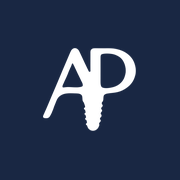
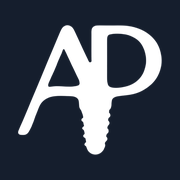
Restore AP implant brand across site

Changed region(s): [[0.0833, 0.1389, 0.9167, 0.8611]]

diff --git a/index.html b/index.html
@@ -21,11 +21,11 @@
     <meta name="twitter:image" content="https://drparmardds.com/og-image.png?v=2" />
     <meta name="geo.region" content="US-NJ" />
     <meta name="geo.placename" content="Hamilton Township, New Jersey" />
-    <link rel="icon" type="image/x-icon" href="/favicon.ico?v=8" />
-    <link rel="icon" type="image/png" sizes="32x32" href="/favicon-32x32.png?v=8" />
-    <link rel="icon" type="image/png" sizes="16x16" href="/favicon-16x16.png?v=8" />
-    <link rel="apple-touch-icon" sizes="180x180" href="/apple-touch-icon.png?v=8" />
-    <link rel="manifest" href="/site.webmanifest?v=7" />
+    <link rel="icon" type="image/png" sizes="32x32" href="/favicon-32x32.png?v=10" />
+    <link rel="icon" type="image/png" sizes="16x16" href="/favicon-16x16.png?v=10" />
+    <link rel="shortcut icon" href="/favicon.ico?v=10" />
+    <link rel="apple-touch-icon" sizes="180x180" href="/apple-touch-icon.png?v=10" />
+    <link rel="manifest" href="/site.webmanifest?v=10" />
     <meta name="robots" content="index, follow, max-image-preview:large, max-snippet:-1, max-video-preview:-1" />
     <meta name="theme-color" content="#151E2D" />
     <meta name="color-scheme" content="light" />
@@ -43,24 +43,68 @@
         align-items: center;
         justify-content: center;
         background: #192743;
-        transition: opacity 0.4s ease;
+        transition: opacity 0.48s ease, visibility 0.48s ease;
+      }
+      .splash-lockup {
+        display: flex;
+        flex-direction: column;
+        align-items: center;
+        transform: translateY(5px);
       }
       #splash-screen img {
-        width: 88px;
+        width: 96px;
         height: auto;
         opacity: 0;
-        transform: scale(0.92);
-        animation: splash-in 0.5s ease-out 0.05s forwards;
+        clip-path: inset(0 0 100% 0);
+        transform: translateY(7px) scale(0.97);
+        animation: splash-mark-in 0.72s cubic-bezier(0.22, 1, 0.36, 1) 0.04s forwards;
+      }
+      .splash-name {
+        margin-top: 14px;
+        color: rgba(255, 255, 255, 0.96);
+        font-family: "Cormorant Garamond", Georgia, serif;
+        font-size: 24px;
+        font-weight: 500;
+        line-height: 1;
+        letter-spacing: 0.28em;
+        text-indent: 0.28em;
+        text-transform: uppercase;
+        opacity: 0;
+        transform: translateY(4px);
+        animation: splash-copy-in 0.48s ease-out 0.42s forwards;
+      }
+      .splash-specialty {
+        margin-top: 8px;
+        color: rgba(255, 255, 255, 0.5);
+        font-family: Inter, Arial, sans-serif;
+        font-size: 7px;
+        font-weight: 400;
+        letter-spacing: 0.2em;
+        text-indent: 0.2em;
+        text-transform: uppercase;
+        opacity: 0;
+        animation: splash-copy-in 0.48s ease-out 0.54s forwards;
       }
       #splash-screen.splash-exit {
         opacity: 0;
+        visibility: hidden;
         pointer-events: none;
       }
-      @keyframes splash-in {
-        to { opacity: 1; transform: scale(1); }
+      @keyframes splash-mark-in {
+        to { opacity: 1; clip-path: inset(0 0 0 0); transform: translateY(0) scale(1); }
+      }
+      @keyframes splash-copy-in {
+        to { opacity: 1; transform: translateY(0); }
       }
       @media (prefers-reduced-motion: reduce) {
-        #splash-screen img { animation: none; opacity: 1; transform: none; }
+        #splash-screen img,
+        .splash-name,
+        .splash-specialty {
+          animation: none;
+          opacity: 1;
+          transform: none;
+          clip-path: none;
+        }
       }
     </style>
     <link rel="preconnect" href="https://fonts.googleapis.com">
@@ -255,7 +299,11 @@
   </head>
   <body>
     <div id="splash-screen" aria-hidden="true">
-      <img src="/splash-icon.png" alt="" width="88" height="80" />
+      <div class="splash-lockup">
+        <img src="/splash-icon.png?v=10" alt="" width="96" height="87" />
+        <div class="splash-name">Parmar</div>
+        <div class="splash-specialty">Prosthodontics · Implants · Aesthetic Reconstruction</div>
+      </div>
     </div>
     <script>
       (function () {
@@ -266,8 +314,8 @@
           el.classList.add("splash-exit");
           setTimeout(function () {
             el.remove();
-          }, 420);
-        }, reduced ? 150 : 950);
+          }, 500);
+        }, reduced ? 150 : 1150);
       })();
     </script>
     <noscript>

diff --git a/src/components/SiteNavigation.tsx b/src/components/SiteNavigation.tsx
@@ -2,7 +2,7 @@ import { Link, useLocation } from "react-router-dom";
 import { useState, useEffect, useRef } from "react";
 import { Menu, X } from "lucide-react";
 import { motion, AnimatePresence } from "framer-motion";
-import logoAP from "@/assets/logo-ap.png";
+import BrandLockup from "@/components/BrandLockup";
 
 interface NavLink {
   to: string;
@@ -221,32 +221,14 @@ const SiteNavigation = () => {
         }`}
       >
         <div className="luxury-container flex items-center justify-between py-3 sm:py-4 px-6 md:px-10">
-          {/* Logo: the "Parmar" script wordmark is the primary mark, used at a
-              size where it stays legible (confirmed at 64px+; this renders
-              taller than that on every breakpoint). The name is pixels inside
-              this image, not live text, so the alt attribute carries it for
-              search and AI crawlers. The tagline underneath is real text,
-              stacked below the mark rather than beside it so it reads as
-              part of the same lockup instead of competing with it. */}
+          {/* Founder mark and practice wordmark. The AP implant monogram is the
+              visual signature; PARMAR remains the clear, searchable name. */}
           <Link
             to="/"
-            className="hover:opacity-80 transition-opacity duration-300 shrink-0 -ml-3 sm:-ml-2 lg:ml-0 flex flex-col items-start gap-1 sm:gap-1.5"
+            className="shrink-0 transition-opacity duration-300 hover:opacity-80"
+            aria-label="Parmar Prosthodontics, home"
           >
-            <img
-              src={logoAP}
-              alt="Dr. Akshay Parmar"
-              className={`transition-all duration-500 w-auto shrink-0 ${
-                showSolid ? "h-9 sm:h-10 md:h-12 lg:h-14" : "h-11 sm:h-12 md:h-14 lg:h-16"
-              }`}
-              style={{ filter: showSolid ? "none" : "brightness(0) invert(1)" }}
-            />
-            <span
-              className={`font-body text-[6px] sm:text-[6.5px] md:text-[7px] tracking-[0.16em] uppercase whitespace-nowrap transition-colors duration-300 ${
-                showSolid ? "text-charcoal-light/60" : "text-primary-foreground/55"
-              }`}
-            >
-              Implants &nbsp;·&nbsp; Aesthetics &nbsp;·&nbsp; Smile Reconstruction
-            </span>
+            <BrandLockup inverted={!showSolid} />
           </Link>
 
           {/* Desktop nav items */}

diff --git a/src/components/BrandLockup.tsx b/src/components/BrandLockup.tsx
@@ -1,0 +1,58 @@
+interface BrandLockupProps {
+  inverted?: boolean;
+  size?: "header" | "footer";
+  className?: string;
+}
+
+const BrandLockup = ({
+  inverted = false,
+  size = "header",
+  className = "",
+}: BrandLockupProps) => {
+  const isFooter = size === "footer";
+
+  return (
+    <span
+      className={`inline-flex items-center ${isFooter ? "gap-4 md:gap-5" : "gap-2.5 sm:gap-3"} ${className}`}
+    >
+      <img
+        src="/splash-icon.png?v=10"
+        alt=""
+        aria-hidden="true"
+        width="592"
+        height="534"
+        className={`shrink-0 object-contain transition-all duration-500 ${
+          isFooter ? "h-16 w-16 md:h-[4.75rem] md:w-[4.75rem]" : "h-10 w-10 sm:h-11 sm:w-11"
+        }`}
+        style={{
+          filter: inverted
+            ? "none"
+            : "brightness(0) saturate(100%) invert(16%) sepia(18%) saturate(1704%) hue-rotate(178deg) brightness(88%) contrast(91%)",
+        }}
+      />
+
+      <span className="flex min-w-0 flex-col items-start">
+        <span
+          className={`font-display font-medium uppercase leading-none ${
+            isFooter
+              ? "text-[2rem] tracking-[0.2em] md:text-[2.65rem]"
+              : "text-[1.35rem] tracking-[0.18em] sm:text-[1.55rem]"
+          } ${inverted ? "text-primary-foreground" : "text-navy"}`}
+        >
+          Parmar
+        </span>
+        <span
+          className={`mt-1 whitespace-nowrap font-body uppercase ${
+            isFooter
+              ? "text-[7px] tracking-[0.2em] md:text-[8px] md:tracking-[0.23em]"
+              : "text-[5.5px] tracking-[0.12em] sm:text-[6px] sm:tracking-[0.15em]"
+          } ${inverted ? "text-primary-foreground/55" : "text-charcoal-light/60"}`}
+        >
+          Prosthodontics <span aria-hidden="true">·</span> Implants <span aria-hidden="true">·</span> Aesthetic Reconstruction
+        </span>
+      </span>
+    </span>
+  );
+};
+
+export default BrandLockup;

diff --git a/src/components/FooterSection.tsx b/src/components/FooterSection.tsx
@@ -1,5 +1,5 @@
 import { Link } from "react-router-dom";
-import logoAP from "@/assets/logo-ap.png";
+import BrandLockup from "@/components/BrandLockup";
 
 const professionalLinks = [
   {
@@ -65,12 +65,7 @@ const FooterSection = () => {
             {/* Practice & Contact */}
             <div>
               <Link to="/" className="inline-block mb-5">
-                <img
-                  src={logoAP}
-                  alt="Dr. Akshay Parmar"
-                  className="h-20 md:h-24 w-auto"
-                  style={{ filter: "brightness(0) invert(1)" }}
-                />
+                <BrandLockup inverted size="footer" />
               </Link>
               <p className="font-body text-[10px] tracking-[0.3em] uppercase text-primary-foreground/45 mb-4">
                 Board-Certified Prosthodontist

diff --git a/src/components/PageFooter.tsx b/src/components/PageFooter.tsx
@@ -1,5 +1,5 @@
 import { Link } from "react-router-dom";
-import logoAP from "@/assets/logo-ap.png";
+import BrandLockup from "@/components/BrandLockup";
 
 const professionalLinks = [
   {
@@ -32,12 +32,7 @@ const PageFooter = () => {
           {/* Logo & Contact */}
           <div>
             <Link to="/" className="inline-block mb-6">
-              <img
-                src={logoAP}
-                alt="Dr. Akshay Parmar"
-                className="h-24 md:h-28 w-auto"
-                style={{ filter: "brightness(0) invert(1)" }}
-              />
+              <BrandLockup inverted size="footer" />
             </Link>
             <p className="font-body text-[10px] tracking-[0.3em] uppercase text-primary-foreground/45 mb-3">
               Board-Certified Prosthodontist
